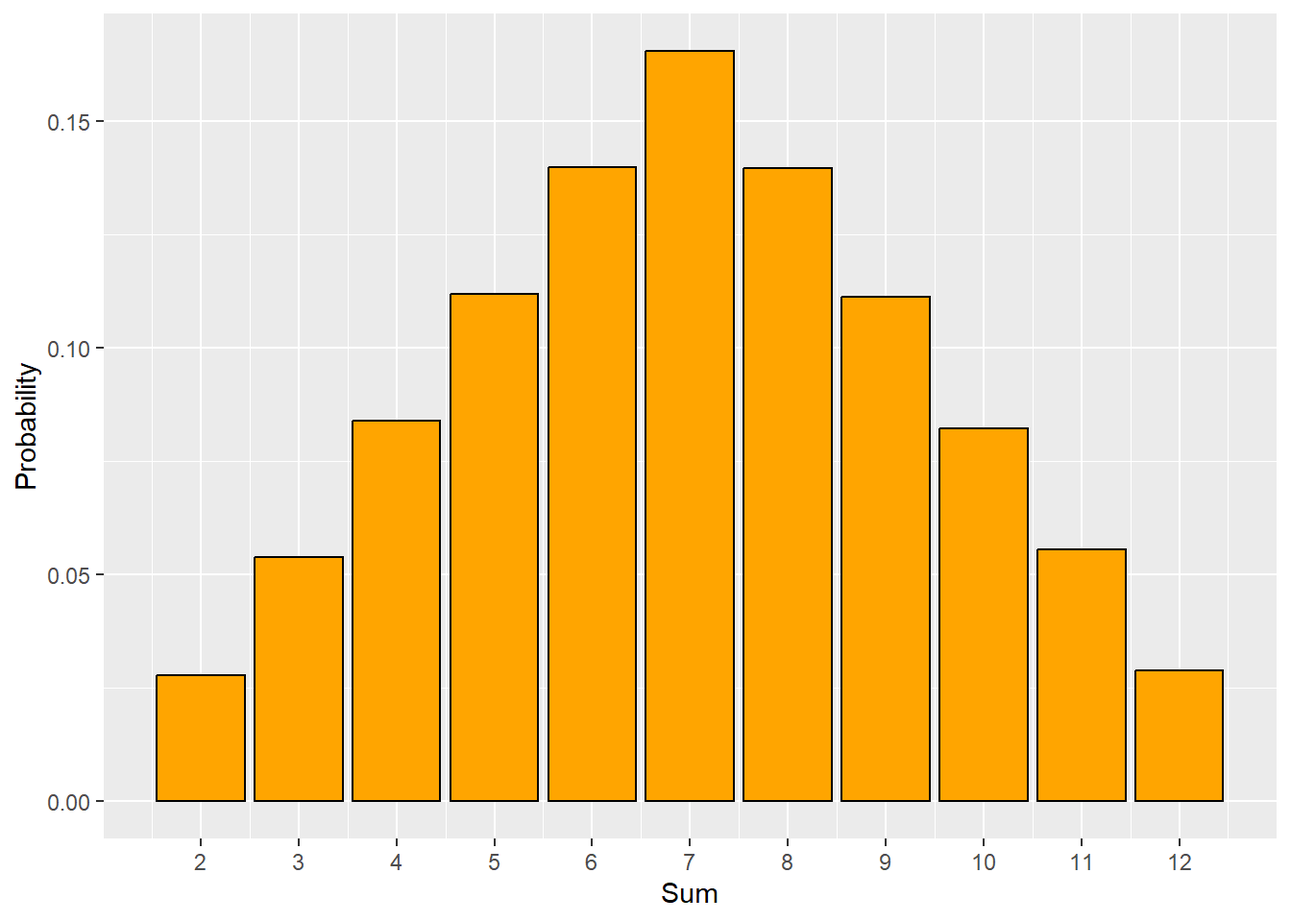
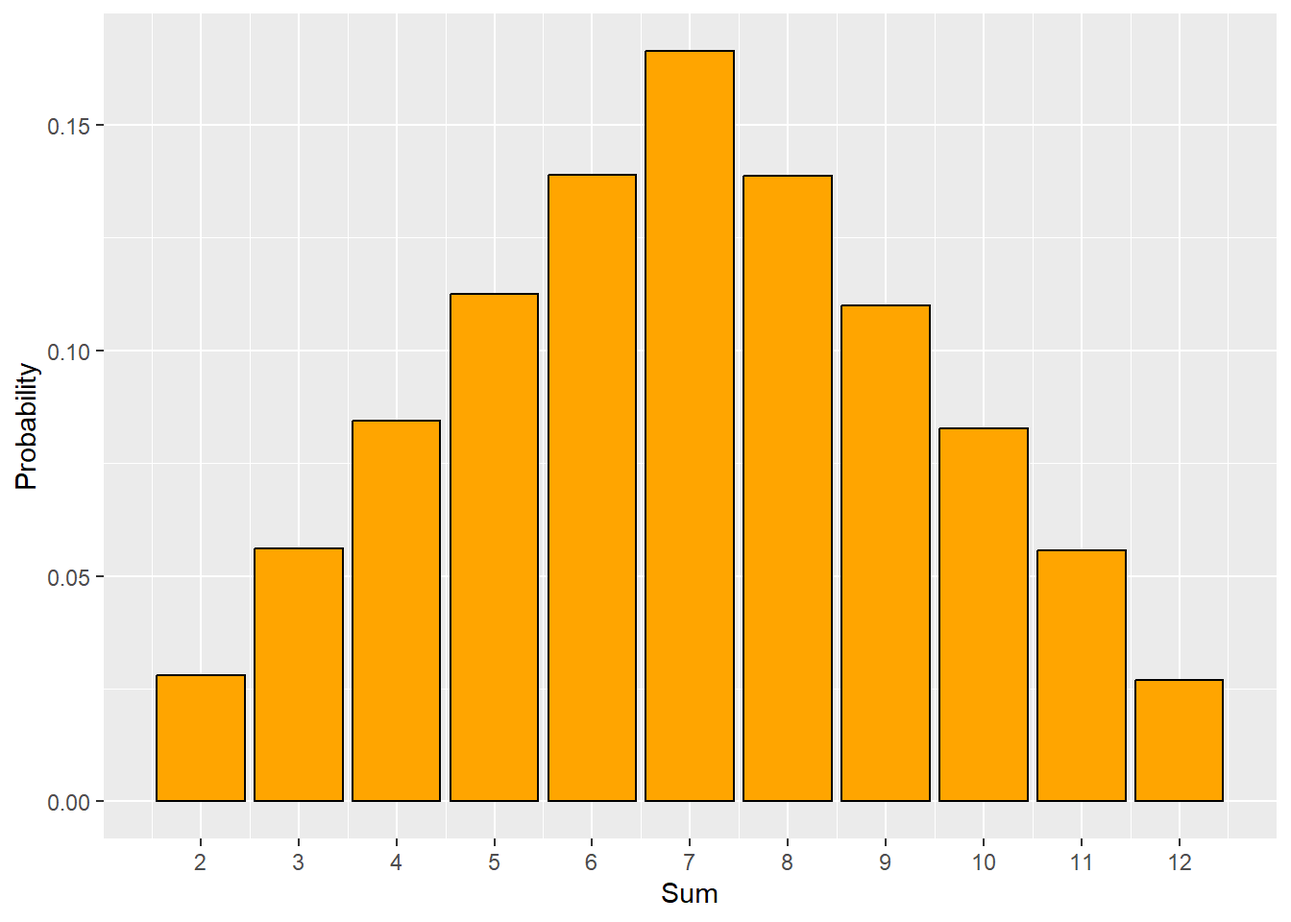
Built site for gh-pages

diff --git a/content/chapters/Relationships_among_numerical_variables.html b/content/chapters/Relationships_among_numerical_variables.html
@@ -260,7 +260,7 @@ pre > code.sourceCode > span > a:first-child::before { text-decoration: underlin
 </li>
           <li class="sidebar-item">
   <div class="sidebar-item-container"> 
-  <a href="../../content/chapters/references.bib" class="sidebar-item-text sidebar-link">
+  <a href="../../content/references.bib" class="sidebar-item-text sidebar-link">
  <span class="menu-text">Download a full reference list!</span></a>
   </div>
 </li>
@@ -425,7 +425,7 @@ H_A: \textrm{there is a relationship between sepal and petal length}\\
 <p><img src="Relationships_among_numerical_variables_files/figure-html/unnamed-chunk-4-1.png" class="img-fluid" width="672"></p>
 </div>
 </div>
-<p>While we can draw this “line of best fit” by sight, linear models actually give us a way to formally define it (analyze our hypothesis). The line of best fit minimizes the residuals (which means it also offers a prediction any value of sepal length!). This approach, however, also means we are considering <strong>linear</strong> relationships between our variables. This is one assumption of linear regression! We can consider <strong>non-linear</strong> relationships using other techniques (which we will cover later).</p>
+<p>While we can draw this “line of best fit” by sight, linear models actually give us a way to formally define it (analyze our hypothesis). The line of best fit minimizes the residuals (which means it also offers a prediction any value of sepal length!). This approach, however, also means we are considering <strong>linear</strong> relationships between our predictor variables (but note our predictor variables themselves could be a transformation of an actual measurement, such as a square root or value cubed!). This is one assumption of linear regression. We can consider <strong>non-linear</strong> relationships using other techniques (which we will cover later).</p>
 <p>If we wanted to carry out a sampling experiment to determine a p-value for our hypotheses, we could sample from a population that represents our sepal lengths and one that represents our petal lengths. If the two populations are not connected, then arbitrary pairs could be made - this would indicate no relationship among the variables. For each dataset, we could note the potential relationship (now occuring by chance!) between our variables, and then compare that null distribution to what we actually observed. To make this approach more generalizable, we could standardize our data points - using these to calculate our error terms for full and reduced models would lead us to F distributions.</p>
 <p>Overall, this means we can use a linear model approach to investigate relationships among numerical variables. We can build the model</p>
 <div class="cell">
@@ -608,7 +608,7 @@ Z = 10.641, p-value &lt; 2.2e-16
 alternative hypothesis: two.sided</code></pre>
 </div>
 </div>
-<p>Bootstrapping may be done using the <strong>boot</strong> or other packages (not developed here).</p>
+<p>Bootstrapping may be done using the <strong>boot</strong> or other packages. For example, the <em>boot</em> function in the <strong>car</strong> package gives an easy wrapper for <em>boot</em>.</p>
 <div class="cell">
 <div class="sourceCode cell-code" id="cb34"><pre class="sourceCode r code-with-copy"><code class="sourceCode r"><span id="cb34-1"><a href="#cb34-1" aria-hidden="true" tabindex="-1"></a><span class="fu">library</span>(car)</span>
 <span id="cb34-2"><a href="#cb34-2" aria-hidden="true" tabindex="-1"></a>bootstrap_iris <span class="ot">&lt;-</span> <span class="fu">Boot</span>(iris_regression)</span></code><button title="Copy to Clipboard" class="code-copy-button"><i class="bi"></i></button></pre></div>
@@ -619,9 +619,17 @@ alternative hypothesis: two.sided</code></pre>
 <div class="cell-output cell-output-stdout">
 <pre><code>
 Number of bootstrap replications R = 999 
-             original   bootBias   bootSE bootMed
-(Intercept)   -7.1014 -0.0181896 0.430265 -7.1185
-Sepal.Length   1.8584  0.0031911 0.070123  1.8607</code></pre>
+             original    bootBias  bootSE bootMed
+(Intercept)   -7.1014 -0.00126225 0.39454 -7.0941
+Sepal.Length   1.8584  0.00040832 0.06414  1.8575</code></pre>
+</div>
+<div class="sourceCode cell-code" id="cb38"><pre class="sourceCode r code-with-copy"><code class="sourceCode r"><span id="cb38-1"><a href="#cb38-1" aria-hidden="true" tabindex="-1"></a><span class="fu">Confint</span>(bootstrap_iris)</span></code><button title="Copy to Clipboard" class="code-copy-button"><i class="bi"></i></button></pre></div>
+<div class="cell-output cell-output-stdout">
+<pre><code>Bootstrap bca confidence intervals
+
+              Estimate     2.5 %    97.5 %
+(Intercept)  -7.101443 -7.903464 -6.303292
+Sepal.Length  1.858433  1.731321  1.984933</code></pre>
 </div>
 </div>
 </section>
@@ -631,40 +639,40 @@ Sepal.Length   1.8584  0.0031911 0.070123  1.8607</code></pre>
 <p>Although our linear models all have the same assumptions, numerical predictors add a few new wrinkles. For numerical predictors, outliers may be more of an issue. Outliers may be used a general term to focus on a data point that is different from the rest of the dataset, but only certain types of outliers matter.</p>
 <p>For example, let’s pretend we realized our <em>iris</em> dataset was missing 3 rows and add them back in.</p>
 <div class="cell">
-<div class="sourceCode cell-code" id="cb38"><pre class="sourceCode r code-with-copy"><code class="sourceCode r"><span id="cb38-1"><a href="#cb38-1" aria-hidden="true" tabindex="-1"></a>iris_new <span class="ot">&lt;-</span> iris</span>
-<span id="cb38-2"><a href="#cb38-2" aria-hidden="true" tabindex="-1"></a>iris_new<span class="sc">$</span>Source <span class="ot">&lt;-</span> <span class="st">"original"</span></span>
-<span id="cb38-3"><a href="#cb38-3" aria-hidden="true" tabindex="-1"></a>iris_new<span class="sc">$</span>label <span class="ot">&lt;-</span> <span class="cn">NULL</span></span>
-<span id="cb38-4"><a href="#cb38-4" aria-hidden="true" tabindex="-1"></a><span class="co">#make outlier</span></span>
-<span id="cb38-5"><a href="#cb38-5" aria-hidden="true" tabindex="-1"></a>iris_outlier <span class="ot">&lt;-</span> <span class="fu">data.frame</span>(<span class="at">Petal.Length =</span> <span class="fu">c</span>(<span class="fl">2.5</span>,<span class="dv">12</span>, <span class="fl">12.1</span>),</span>
-<span id="cb38-6"><a href="#cb38-6" aria-hidden="true" tabindex="-1"></a>                           <span class="at">Sepal.Length =</span> <span class="fu">c</span>(<span class="fl">5.4</span>,<span class="fl">8.9</span>, <span class="dv">3</span>), </span>
-<span id="cb38-7"><a href="#cb38-7" aria-hidden="true" tabindex="-1"></a>                           <span class="at">Source =</span> <span class="st">"new"</span>,</span>
-<span id="cb38-8"><a href="#cb38-8" aria-hidden="true" tabindex="-1"></a>                           <span class="at">label =</span> <span class="fu">c</span>(<span class="st">"A"</span>,<span class="st">"B"</span>, <span class="st">"C"</span>))</span>
-<span id="cb38-9"><a href="#cb38-9" aria-hidden="true" tabindex="-1"></a>iris_merged <span class="ot">&lt;-</span> <span class="fu">merge</span>(iris_new, iris_outlier, <span class="at">all =</span> T)</span>
-<span id="cb38-10"><a href="#cb38-10" aria-hidden="true" tabindex="-1"></a>iris_merged <span class="ot">&lt;-</span> iris_merged[<span class="fu">order</span>(iris_merged<span class="sc">$</span>Source, <span class="at">decreasing =</span> T),]</span>
-<span id="cb38-11"><a href="#cb38-11" aria-hidden="true" tabindex="-1"></a><span class="fu">rownames</span>(iris_merged) <span class="ot">&lt;-</span> <span class="dv">1</span><span class="sc">:</span><span class="fu">nrow</span>(iris_merged) </span>
-<span id="cb38-12"><a href="#cb38-12" aria-hidden="true" tabindex="-1"></a></span>
-<span id="cb38-13"><a href="#cb38-13" aria-hidden="true" tabindex="-1"></a>iris_merged<span class="sc">$</span>row_number <span class="ot">&lt;-</span> <span class="dv">1</span><span class="sc">:</span><span class="fu">nrow</span>(iris_merged)</span>
-<span id="cb38-14"><a href="#cb38-14" aria-hidden="true" tabindex="-1"></a></span>
-<span id="cb38-15"><a href="#cb38-15" aria-hidden="true" tabindex="-1"></a><span class="fu">ggplot</span>(iris_merged, <span class="fu">aes</span>(<span class="at">y=</span>Petal.Length, <span class="at">x=</span>Sepal.Length, <span class="at">color=</span>Source)) <span class="sc">+</span></span>
-<span id="cb38-16"><a href="#cb38-16" aria-hidden="true" tabindex="-1"></a>  <span class="fu">geom_point</span>() <span class="sc">+</span></span>
-<span id="cb38-17"><a href="#cb38-17" aria-hidden="true" tabindex="-1"></a>  <span class="fu">geom_text</span>(iris_merged[iris_merged<span class="sc">$</span>Source <span class="sc">!=</span> <span class="st">"original"</span>,],<span class="at">mapping=</span><span class="fu">aes</span>(<span class="at">label=</span>row_number,<span class="at">y=</span>Sepal.Length<span class="fl">+.2</span>), <span class="at">color=</span><span class="st">"black"</span>) <span class="sc">+</span></span>
-<span id="cb38-18"><a href="#cb38-18" aria-hidden="true" tabindex="-1"></a>  <span class="fu">labs</span>(<span class="at">title=</span><span class="st">"Iris data including our missing 3 rows!"</span>,</span>
-<span id="cb38-19"><a href="#cb38-19" aria-hidden="true" tabindex="-1"></a>       <span class="at">x=</span> <span class="st">"Sepal length (cm)"</span>,</span>
-<span id="cb38-20"><a href="#cb38-20" aria-hidden="true" tabindex="-1"></a>       <span class="at">y=</span> <span class="st">"Petal Length (cm)"</span>)</span></code><button title="Copy to Clipboard" class="code-copy-button"><i class="bi"></i></button></pre></div>
+<div class="sourceCode cell-code" id="cb40"><pre class="sourceCode r code-with-copy"><code class="sourceCode r"><span id="cb40-1"><a href="#cb40-1" aria-hidden="true" tabindex="-1"></a>iris_new <span class="ot">&lt;-</span> iris</span>
+<span id="cb40-2"><a href="#cb40-2" aria-hidden="true" tabindex="-1"></a>iris_new<span class="sc">$</span>Source <span class="ot">&lt;-</span> <span class="st">"original"</span></span>
+<span id="cb40-3"><a href="#cb40-3" aria-hidden="true" tabindex="-1"></a>iris_new<span class="sc">$</span>label <span class="ot">&lt;-</span> <span class="cn">NULL</span></span>
+<span id="cb40-4"><a href="#cb40-4" aria-hidden="true" tabindex="-1"></a><span class="co">#make outlier</span></span>
+<span id="cb40-5"><a href="#cb40-5" aria-hidden="true" tabindex="-1"></a>iris_outlier <span class="ot">&lt;-</span> <span class="fu">data.frame</span>(<span class="at">Petal.Length =</span> <span class="fu">c</span>(<span class="fl">2.5</span>,<span class="dv">12</span>, <span class="fl">12.1</span>),</span>
+<span id="cb40-6"><a href="#cb40-6" aria-hidden="true" tabindex="-1"></a>                           <span class="at">Sepal.Length =</span> <span class="fu">c</span>(<span class="fl">5.4</span>,<span class="fl">8.9</span>, <span class="dv">3</span>), </span>
+<span id="cb40-7"><a href="#cb40-7" aria-hidden="true" tabindex="-1"></a>                           <span class="at">Source =</span> <span class="st">"new"</span>,</span>
+<span id="cb40-8"><a href="#cb40-8" aria-hidden="true" tabindex="-1"></a>                           <span class="at">label =</span> <span class="fu">c</span>(<span class="st">"A"</span>,<span class="st">"B"</span>, <span class="st">"C"</span>))</span>
+<span id="cb40-9"><a href="#cb40-9" aria-hidden="true" tabindex="-1"></a>iris_merged <span class="ot">&lt;-</span> <span class="fu">merge</span>(iris_new, iris_outlier, <span class="at">all =</span> T)</span>
+<span id="cb40-10"><a href="#cb40-10" aria-hidden="true" tabindex="-1"></a>iris_merged <span class="ot">&lt;-</span> iris_merged[<span class="fu">order</span>(iris_merged<span class="sc">$</span>Source, <span class="at">decreasing =</span> T),]</span>
+<span id="cb40-11"><a href="#cb40-11" aria-hidden="true" tabindex="-1"></a><span class="fu">rownames</span>(iris_merged) <span class="ot">&lt;-</span> <span class="dv">1</span><span class="sc">:</span><span class="fu">nrow</span>(iris_merged) </span>
+<span id="cb40-12"><a href="#cb40-12" aria-hidden="true" tabindex="-1"></a></span>
+<span id="cb40-13"><a href="#cb40-13" aria-hidden="true" tabindex="-1"></a>iris_merged<span class="sc">$</span>row_number <span class="ot">&lt;-</span> <span class="dv">1</span><span class="sc">:</span><span class="fu">nrow</span>(iris_merged)</span>
+<span id="cb40-14"><a href="#cb40-14" aria-hidden="true" tabindex="-1"></a></span>
+<span id="cb40-15"><a href="#cb40-15" aria-hidden="true" tabindex="-1"></a><span class="fu">ggplot</span>(iris_merged, <span class="fu">aes</span>(<span class="at">y=</span>Petal.Length, <span class="at">x=</span>Sepal.Length, <span class="at">color=</span>Source)) <span class="sc">+</span></span>
+<span id="cb40-16"><a href="#cb40-16" aria-hidden="true" tabindex="-1"></a>  <span class="fu">geom_point</span>() <span class="sc">+</span></span>
+<span id="cb40-17"><a href="#cb40-17" aria-hidden="true" tabindex="-1"></a>  <span class="fu">geom_text</span>(iris_merged[iris_merged<span class="sc">$</span>Source <span class="sc">!=</span> <span class="st">"original"</span>,],<span class="at">mapping=</span><span class="fu">aes</span>(<span class="at">label=</span>row_number,<span class="at">y=</span>Sepal.Length<span class="fl">+.2</span>), <span class="at">color=</span><span class="st">"black"</span>) <span class="sc">+</span></span>
+<span id="cb40-18"><a href="#cb40-18" aria-hidden="true" tabindex="-1"></a>  <span class="fu">labs</span>(<span class="at">title=</span><span class="st">"Iris data including our missing 3 rows!"</span>,</span>
+<span id="cb40-19"><a href="#cb40-19" aria-hidden="true" tabindex="-1"></a>       <span class="at">x=</span> <span class="st">"Sepal length (cm)"</span>,</span>
+<span id="cb40-20"><a href="#cb40-20" aria-hidden="true" tabindex="-1"></a>       <span class="at">y=</span> <span class="st">"Petal Length (cm)"</span>)</span></code><button title="Copy to Clipboard" class="code-copy-button"><i class="bi"></i></button></pre></div>
 <div class="cell-output-display">
 <p><img src="Relationships_among_numerical_variables_files/figure-html/unnamed-chunk-16-1.png" class="img-fluid" width="672"></p>
 </div>
 </div>
 <p>Our 3 “new” points (rows 151-153) are all unique ins some way. <strong>152</strong> is from a relatively unsampled region of the graph that is within the range of existing data. <strong>151</strong> and <strong>153</strong> are also from un-sampled regions, but these are outside of the original range. More importantly, note if we fit the data <em>without</em> these points</p>
 <div class="cell">
-<div class="sourceCode cell-code" id="cb39"><pre class="sourceCode r code-with-copy"><code class="sourceCode r"><span id="cb39-1"><a href="#cb39-1" aria-hidden="true" tabindex="-1"></a><span class="fu">ggplot</span>(iris_merged, <span class="fu">aes</span>(<span class="at">y=</span>Petal.Length, <span class="at">x=</span>Sepal.Length, <span class="at">color=</span>Source)) <span class="sc">+</span></span>
-<span id="cb39-2"><a href="#cb39-2" aria-hidden="true" tabindex="-1"></a>  <span class="fu">geom_point</span>() <span class="sc">+</span></span>
-<span id="cb39-3"><a href="#cb39-3" aria-hidden="true" tabindex="-1"></a>  <span class="fu">geom_text</span>(iris_merged[iris_merged<span class="sc">$</span>Source <span class="sc">!=</span> <span class="st">"original"</span>,],<span class="at">mapping=</span><span class="fu">aes</span>(<span class="at">label=</span>row_number,<span class="at">y=</span>Sepal.Length<span class="fl">+.2</span>), <span class="at">color=</span><span class="st">"black"</span>) <span class="sc">+</span></span>
-<span id="cb39-4"><a href="#cb39-4" aria-hidden="true" tabindex="-1"></a>  <span class="fu">labs</span>(<span class="at">title=</span><span class="st">"Iris data including our missing 3 rows!"</span>,</span>
-<span id="cb39-5"><a href="#cb39-5" aria-hidden="true" tabindex="-1"></a>       <span class="at">subtitle =</span> <span class="st">"Best fit based on original data only!"</span>,</span>
-<span id="cb39-6"><a href="#cb39-6" aria-hidden="true" tabindex="-1"></a>       <span class="at">x=</span> <span class="st">"Sepal length (cm)"</span>,</span>
-<span id="cb39-7"><a href="#cb39-7" aria-hidden="true" tabindex="-1"></a>       <span class="at">y=</span> <span class="st">"Petal Length (cm)"</span>) <span class="sc">+</span></span>
-<span id="cb39-8"><a href="#cb39-8" aria-hidden="true" tabindex="-1"></a>  <span class="fu">geom_smooth</span>(<span class="at">data=</span>iris_new[iris_new<span class="sc">$</span>Source <span class="sc">==</span> <span class="st">"original"</span>,], <span class="at">method =</span> <span class="st">"lm"</span>, <span class="at">fullrange=</span>T, <span class="at">se=</span>F)</span></code><button title="Copy to Clipboard" class="code-copy-button"><i class="bi"></i></button></pre></div>
+<div class="sourceCode cell-code" id="cb41"><pre class="sourceCode r code-with-copy"><code class="sourceCode r"><span id="cb41-1"><a href="#cb41-1" aria-hidden="true" tabindex="-1"></a><span class="fu">ggplot</span>(iris_merged, <span class="fu">aes</span>(<span class="at">y=</span>Petal.Length, <span class="at">x=</span>Sepal.Length, <span class="at">color=</span>Source)) <span class="sc">+</span></span>
+<span id="cb41-2"><a href="#cb41-2" aria-hidden="true" tabindex="-1"></a>  <span class="fu">geom_point</span>() <span class="sc">+</span></span>
+<span id="cb41-3"><a href="#cb41-3" aria-hidden="true" tabindex="-1"></a>  <span class="fu">geom_text</span>(iris_merged[iris_merged<span class="sc">$</span>Source <span class="sc">!=</span> <span class="st">"original"</span>,],<span class="at">mapping=</span><span class="fu">aes</span>(<span class="at">label=</span>row_number,<span class="at">y=</span>Sepal.Length<span class="fl">+.2</span>), <span class="at">color=</span><span class="st">"black"</span>) <span class="sc">+</span></span>
+<span id="cb41-4"><a href="#cb41-4" aria-hidden="true" tabindex="-1"></a>  <span class="fu">labs</span>(<span class="at">title=</span><span class="st">"Iris data including our missing 3 rows!"</span>,</span>
+<span id="cb41-5"><a href="#cb41-5" aria-hidden="true" tabindex="-1"></a>       <span class="at">subtitle =</span> <span class="st">"Best fit based on original data only!"</span>,</span>
+<span id="cb41-6"><a href="#cb41-6" aria-hidden="true" tabindex="-1"></a>       <span class="at">x=</span> <span class="st">"Sepal length (cm)"</span>,</span>
+<span id="cb41-7"><a href="#cb41-7" aria-hidden="true" tabindex="-1"></a>       <span class="at">y=</span> <span class="st">"Petal Length (cm)"</span>) <span class="sc">+</span></span>
+<span id="cb41-8"><a href="#cb41-8" aria-hidden="true" tabindex="-1"></a>  <span class="fu">geom_smooth</span>(<span class="at">data=</span>iris_new[iris_new<span class="sc">$</span>Source <span class="sc">==</span> <span class="st">"original"</span>,], <span class="at">method =</span> <span class="st">"lm"</span>, <span class="at">fullrange=</span>T, <span class="at">se=</span>F)</span></code><button title="Copy to Clipboard" class="code-copy-button"><i class="bi"></i></button></pre></div>
 <div class="cell-output cell-output-stderr">
 <pre><code>`geom_smooth()` using formula = 'y ~ x'</code></pre>
 </div>
@@ -674,8 +682,8 @@ Sepal.Length   1.8584  0.0031911 0.070123  1.8607</code></pre>
 </div>
 <p>We see that only row <strong>151</strong> appears to be different than what we would expect given the rest of the data. Now, note if we fit a model all these points and check assumptions</p>
 <div class="cell">
-<div class="sourceCode cell-code" id="cb41"><pre class="sourceCode r code-with-copy"><code class="sourceCode r"><span id="cb41-1"><a href="#cb41-1" aria-hidden="true" tabindex="-1"></a>iris_regression_new <span class="ot">&lt;-</span> <span class="fu">lm</span>(Petal.Length <span class="sc">~</span> Sepal.Length, iris_merged)</span>
-<span id="cb41-2"><a href="#cb41-2" aria-hidden="true" tabindex="-1"></a><span class="fu">plot</span>(iris_regression_new)</span></code><button title="Copy to Clipboard" class="code-copy-button"><i class="bi"></i></button></pre></div>
+<div class="sourceCode cell-code" id="cb43"><pre class="sourceCode r code-with-copy"><code class="sourceCode r"><span id="cb43-1"><a href="#cb43-1" aria-hidden="true" tabindex="-1"></a>iris_regression_new <span class="ot">&lt;-</span> <span class="fu">lm</span>(Petal.Length <span class="sc">~</span> Sepal.Length, iris_merged)</span>
+<span id="cb43-2"><a href="#cb43-2" aria-hidden="true" tabindex="-1"></a><span class="fu">plot</span>(iris_regression_new)</span></code><button title="Copy to Clipboard" class="code-copy-button"><i class="bi"></i></button></pre></div>
 <div class="cell-output-display">
 <p><img src="Relationships_among_numerical_variables_files/figure-html/unnamed-chunk-18-1.png" class="img-fluid" width="672"></p>
 </div>
@@ -692,15 +700,15 @@ Sepal.Length   1.8584  0.0031911 0.070123  1.8607</code></pre>
 <p>several plots label row <strong>151</strong>. In general, R provides the row number of the most “unusual” rows in each graph. This may mean a fairly normal row that just so happens to be the “most” extreme in a dataset is labelled. However, here we see row <strong>151</strong> falling outside the dotted lines that are labelled <em>Cook’s distance</em> in the 4th graph. Cook’s distance is one way of quantifying leverage, or how much a single point shifts the best fit line. The measure quantifies change in the regression coefficients if each data point is removed individually. Here we see row <strong>151</strong> is a high leverage point, while <strong>153</strong> is not even though the sepal length itself may be an outlier.</p>
 <p>Although row <strong>153</strong> is not identified as a high leverage point, it <em>is</em> impacting the line (as are all other points). Our best fit line will <em>always</em> go though the point <span class="math inline">\((\bar{x}, \bar{y})\)</span>, so outliers in the “x” variable will impact the line. This also explains why the confidence region (which we won’t calculate here), gets “smaller” in the middle of the data range.</p>
 <div class="cell">
-<div class="sourceCode cell-code" id="cb42"><pre class="sourceCode r code-with-copy"><code class="sourceCode r"><span id="cb42-1"><a href="#cb42-1" aria-hidden="true" tabindex="-1"></a><span class="fu">ggplot</span>(iris_merged, <span class="fu">aes</span>(<span class="at">y=</span>Petal.Length, <span class="at">x=</span>Sepal.Length)) <span class="sc">+</span></span>
-<span id="cb42-2"><a href="#cb42-2" aria-hidden="true" tabindex="-1"></a>  <span class="fu">geom_point</span>(<span class="fu">aes</span>(<span class="at">color=</span>Source)) <span class="sc">+</span></span>
-<span id="cb42-3"><a href="#cb42-3" aria-hidden="true" tabindex="-1"></a>  <span class="fu">geom_text</span>(iris_merged[iris_merged<span class="sc">$</span>Source <span class="sc">!=</span> <span class="st">"original"</span>,],<span class="at">mapping=</span><span class="fu">aes</span>(<span class="at">label=</span>row_number,<span class="at">y=</span>Sepal.Length<span class="fl">+.2</span>), <span class="at">color=</span><span class="st">"black"</span>) <span class="sc">+</span></span>
-<span id="cb42-4"><a href="#cb42-4" aria-hidden="true" tabindex="-1"></a>  <span class="fu">labs</span>(<span class="at">title=</span><span class="st">"Iris data including our missing 3 rows!"</span>,</span>
-<span id="cb42-5"><a href="#cb42-5" aria-hidden="true" tabindex="-1"></a>       <span class="at">subtitle =</span> <span class="st">"Grey area is confidence region, with mean point shown in purple!"</span>,</span>
-<span id="cb42-6"><a href="#cb42-6" aria-hidden="true" tabindex="-1"></a>       <span class="at">x=</span> <span class="st">"Sepal length (cm)"</span>,</span>
-<span id="cb42-7"><a href="#cb42-7" aria-hidden="true" tabindex="-1"></a>       <span class="at">y=</span> <span class="st">"Petal Length (cm)"</span>) <span class="sc">+</span></span>
-<span id="cb42-8"><a href="#cb42-8" aria-hidden="true" tabindex="-1"></a>  <span class="fu">geom_smooth</span>( <span class="at">method =</span> <span class="st">"lm"</span>, <span class="at">fullrange=</span>T, <span class="at">se=</span>T)<span class="sc">+</span></span>
-<span id="cb42-9"><a href="#cb42-9" aria-hidden="true" tabindex="-1"></a>  <span class="fu">geom_point</span>(<span class="fu">aes</span>(<span class="at">x=</span><span class="fu">mean</span>(iris_merged<span class="sc">$</span>Sepal.Length), <span class="at">y=</span><span class="fu">mean</span>(iris_merged<span class="sc">$</span>Petal.Length)), <span class="at">color=</span><span class="st">"purple"</span>)</span></code><button title="Copy to Clipboard" class="code-copy-button"><i class="bi"></i></button></pre></div>
+<div class="sourceCode cell-code" id="cb44"><pre class="sourceCode r code-with-copy"><code class="sourceCode r"><span id="cb44-1"><a href="#cb44-1" aria-hidden="true" tabindex="-1"></a><span class="fu">ggplot</span>(iris_merged, <span class="fu">aes</span>(<span class="at">y=</span>Petal.Length, <span class="at">x=</span>Sepal.Length)) <span class="sc">+</span></span>
+<span id="cb44-2"><a href="#cb44-2" aria-hidden="true" tabindex="-1"></a>  <span class="fu">geom_point</span>(<span class="fu">aes</span>(<span class="at">color=</span>Source)) <span class="sc">+</span></span>
+<span id="cb44-3"><a href="#cb44-3" aria-hidden="true" tabindex="-1"></a>  <span class="fu">geom_text</span>(iris_merged[iris_merged<span class="sc">$</span>Source <span class="sc">!=</span> <span class="st">"original"</span>,],<span class="at">mapping=</span><span class="fu">aes</span>(<span class="at">label=</span>row_number,<span class="at">y=</span>Sepal.Length<span class="fl">+.2</span>), <span class="at">color=</span><span class="st">"black"</span>) <span class="sc">+</span></span>
+<span id="cb44-4"><a href="#cb44-4" aria-hidden="true" tabindex="-1"></a>  <span class="fu">labs</span>(<span class="at">title=</span><span class="st">"Iris data including our missing 3 rows!"</span>,</span>
+<span id="cb44-5"><a href="#cb44-5" aria-hidden="true" tabindex="-1"></a>       <span class="at">subtitle =</span> <span class="st">"Grey area is confidence region, with mean point shown in purple!"</span>,</span>
+<span id="cb44-6"><a href="#cb44-6" aria-hidden="true" tabindex="-1"></a>       <span class="at">x=</span> <span class="st">"Sepal length (cm)"</span>,</span>
+<span id="cb44-7"><a href="#cb44-7" aria-hidden="true" tabindex="-1"></a>       <span class="at">y=</span> <span class="st">"Petal Length (cm)"</span>) <span class="sc">+</span></span>
+<span id="cb44-8"><a href="#cb44-8" aria-hidden="true" tabindex="-1"></a>  <span class="fu">geom_smooth</span>( <span class="at">method =</span> <span class="st">"lm"</span>, <span class="at">fullrange=</span>T, <span class="at">se=</span>T)<span class="sc">+</span></span>
+<span id="cb44-9"><a href="#cb44-9" aria-hidden="true" tabindex="-1"></a>  <span class="fu">geom_point</span>(<span class="fu">aes</span>(<span class="at">x=</span><span class="fu">mean</span>(iris_merged<span class="sc">$</span>Sepal.Length), <span class="at">y=</span><span class="fu">mean</span>(iris_merged<span class="sc">$</span>Petal.Length)), <span class="at">color=</span><span class="st">"purple"</span>)</span></code><button title="Copy to Clipboard" class="code-copy-button"><i class="bi"></i></button></pre></div>
 <div class="cell-output cell-output-stderr">
 <pre><code>Warning: Use of `iris_merged$Sepal.Length` is discouraged.
 ℹ Use `Sepal.Length` instead.</code></pre>

diff --git a/content/chapters/summarizing_data.html b/content/chapters/summarizing_data.html
@@ -260,7 +260,7 @@ pre > code.sourceCode > span > a:first-child::before { text-decoration: underlin
 </li>
           <li class="sidebar-item">
   <div class="sidebar-item-container"> 
-  <a href="../../content/chapters/references.bib" class="sidebar-item-text sidebar-link">
+  <a href="../../content/references.bib" class="sidebar-item-text sidebar-link">
  <span class="menu-text">Download a full reference list!</span></a>
   </div>
 </li>
@@ -1590,7 +1590,7 @@ Attaching package: 'ggpubr'</code></pre>
 <summary>
 Why is the mode not always on the highest bar?
 </summary>
-<p>Note the mode is heavily/totally impacted by data precision and thus can lead to unusual matches with histograms. In our above example, cardinals were measured to 10<sup>-3</sup> grams. However, the data was binned to levels of 10<sup>-2</sup> grams. Due to this mismatch, the most common measurement of the <em>raw</em> data was 50.605, which occurred 6 times. However, more data points still fell in another bin!</p>
+<p>Note the mode is heavily/totally impacted by data precision and thus can lead to unusual matches with histograms. In our above example, cardinals were measured to 10<sup>-3</sup> grams. However, the data was binned to levels of 10<sup>-2</sup> grams. Due to this mismatch, the most common measurement of the <em>raw</em> data was 53.098, which occurred 6 times. However, more data points still fell in another bin!</p>
 </details>
 <p>A special case where central tendency may not be the best way to describe a distribution is known as <em>bimodal</em> data. In this case, the distribution shows two, not one, clear peak. Remember the woodpecker <a href="#fig-woodpeckers">Figure&nbsp;12</a> data?</p>
 <div class="cell">
@@ -1756,7 +1756,7 @@ CV = \frac{s}{Y} * 100\%
 <div class="sourceCode cell-code" id="cb91"><pre class="sourceCode r code-with-copy"><code class="sourceCode r"><span id="cb91-1"><a href="#cb91-1" aria-hidden="true" tabindex="-1"></a><span class="fu">summary</span>(cardinals)</span></code><button title="Copy to Clipboard" class="code-copy-button"><i class="bi"></i></button></pre></div>
 <div class="cell-output cell-output-stdout">
 <pre><code>   Min. 1st Qu.  Median    Mean 3rd Qu.    Max. 
-  22.09   46.08   49.98   49.17   53.18   59.67 </code></pre>
+  22.03   46.10   50.02   49.19   53.11   59.51 </code></pre>
 </div>
 </div>
 <p>Note that if we shifted the bottom 10% of the values even <em>further</em> left (increasing the skew), the median stays the same, as does the IQR.</p>
@@ -1776,7 +1776,7 @@ CV = \frac{s}{Y} * 100\%
 <div class="sourceCode cell-code" id="cb95"><pre class="sourceCode r code-with-copy"><code class="sourceCode r"><span id="cb95-1"><a href="#cb95-1" aria-hidden="true" tabindex="-1"></a><span class="fu">summary</span>(cardinals_new)</span></code><button title="Copy to Clipboard" class="code-copy-button"><i class="bi"></i></button></pre></div>
 <div class="cell-output cell-output-stdout">
 <pre><code>   Min. 1st Qu.  Median    Mean 3rd Qu.    Max. 
-  21.69   46.08   49.98   49.13   53.18   59.67 </code></pre>
+  21.63   46.10   50.02   49.15   53.11   59.51 </code></pre>
 </div>
 <div class="cell-output-display">
 <div id="fig-cardinals_ggplot2_shifted" class="quarto-figure quarto-figure-center anchored">

diff --git a/content/chapters/Acquiring_data.html b/content/chapters/Acquiring_data.html
@@ -274,7 +274,7 @@ div.csl-indent {
 </li>
           <li class="sidebar-item">
   <div class="sidebar-item-container"> 
-  <a href="../../content/chapters/references.bib" class="sidebar-item-text sidebar-link">
+  <a href="../../content/references.bib" class="sidebar-item-text sidebar-link">
  <span class="menu-text">Download a full reference list!</span></a>
   </div>
 </li>
@@ -409,12 +409,12 @@ div.csl-indent {
 <div class="cell">
 <div class="sourceCode cell-code" id="cb1"><pre class="sourceCode r code-with-copy"><code class="sourceCode r"><span id="cb1-1"><a href="#cb1-1" aria-hidden="true" tabindex="-1"></a>lengths <span class="ot">&lt;-</span> <span class="fu">rnorm</span>(<span class="at">n=</span><span class="dv">1000</span>, <span class="at">mean =</span> <span class="dv">10</span>, <span class="at">sd=</span><span class="dv">1</span>)</span></code><button title="Copy to Clipboard" class="code-copy-button"><i class="bi"></i></button></pre></div>
 </div>
-<p>The average length of fish in this population is 10.02 cm. We can then simulate a sample from this population. In fact, let’s simulate 2 and compare the means of each.</p>
+<p>The average length of fish in this population is 10.01 cm. We can then simulate a sample from this population. In fact, let’s simulate 2 and compare the means of each.</p>
 <div class="cell">
 <div class="sourceCode cell-code" id="cb2"><pre class="sourceCode r code-with-copy"><code class="sourceCode r"><span id="cb2-1"><a href="#cb2-1" aria-hidden="true" tabindex="-1"></a>sample_1 <span class="ot">&lt;-</span> <span class="fu">sample</span>(lengths,<span class="dv">50</span>)</span>
 <span id="cb2-2"><a href="#cb2-2" aria-hidden="true" tabindex="-1"></a>sample_2 <span class="ot">&lt;-</span><span class="fu">sample</span>(lengths, <span class="dv">50</span>)</span></code><button title="Copy to Clipboard" class="code-copy-button"><i class="bi"></i></button></pre></div>
 </div>
-<p>The mean length for fish in sample 1 is 10.19 cm, while that in sample 2 is 10 cm (Note: if you view this on the webpage you will see a number, but in the actual qmd file you see R code here - this is an example of merging code and text!). These are both close to the true value, but they are also both slightly different - this is sampling error!</p>
+<p>The mean length for fish in sample 1 is 9.88 cm, while that in sample 2 is 10 cm (Note: if you view this on the webpage you will see a number, but in the actual qmd file you see R code here - this is an example of merging code and text!). These are both close to the true value, but they are also both slightly different - this is sampling error!</p>
 <p>Sampling error always exists, and a major part of statistics is to quantify it. One thing that reduces sampling error is to have large samples! Remember, if we measure every member of the population we don’t even need statistics, so the closer we get to that (implying larger samples) the better!</p>
 </section>
 <section id="next-steps" class="level2">

diff --git a/content/practice_problems/6_Comparing_means.html b/content/practice_problems/6_Comparing_means.html
@@ -7,7 +7,7 @@
 <meta name="viewport" content="width=device-width, initial-scale=1.0, user-scalable=yes">
 
 <meta name="author" content="jsg">
-<meta name="dcterms.date" content="2023-10-29">
+<meta name="dcterms.date" content="2023-10-30">
 
 <title>Biostatistics! - 6. Comparing means</title>
 <style>
@@ -85,7 +85,7 @@ div.csl-indent {
 <script src="../../site_libs/quarto-search/quarto-search.js"></script>
 <meta name="quarto:offset" content="../../">
 <link href="../../content/Intro_to_R.html" rel="next">
-<link href="../../content/chapters/references.bib" rel="prev">
+<link href="../../content/references.bib" rel="prev">
 <link href="../../images/favicon.ico" rel="icon">
 <script src="../../site_libs/quarto-html/quarto.js"></script>
 <script src="../../site_libs/quarto-html/popper.min.js"></script>
@@ -276,7 +276,7 @@ div.csl-indent {
 </li>
           <li class="sidebar-item">
   <div class="sidebar-item-container"> 
-  <a href="../../content/chapters/references.bib" class="sidebar-item-text sidebar-link">
+  <a href="../../content/references.bib" class="sidebar-item-text sidebar-link">
  <span class="menu-text">Download a full reference list!</span></a>
   </div>
 </li>
@@ -376,7 +376,7 @@ div.csl-indent {
     <div>
     <div class="quarto-title-meta-heading">Published</div>
     <div class="quarto-title-meta-contents">
-      <p class="date">October 29, 2023</p>
+      <p class="date">October 30, 2023</p>
     </div>
   </div>
   
@@ -1007,7 +1007,7 @@ window.document.addEventListener("DOMContentLoaded", function (event) {
 </script>
 <nav class="page-navigation">
   <div class="nav-page nav-page-previous">
-      <a href="../../content/chapters/references.bib" class="pagination-link">
+      <a href="../../content/references.bib" class="pagination-link">
         <i class="bi bi-arrow-left-short"></i> <span class="nav-page-text">Download a full reference list!</span>
       </a>          
   </div>

diff --git a/content/chapters/Probability.html b/content/chapters/Probability.html
@@ -276,7 +276,7 @@ div.csl-indent {
 </li>
           <li class="sidebar-item">
   <div class="sidebar-item-container"> 
-  <a href="../../content/chapters/references.bib" class="sidebar-item-text sidebar-link">
+  <a href="../../content/references.bib" class="sidebar-item-text sidebar-link">
  <span class="menu-text">Download a full reference list!</span></a>
   </div>
 </li>
@@ -600,7 +600,7 @@ P[roll=blue] + P[roll=6] - P[roll=6 \ and \ blue]= \frac{1}{2} + \frac{1}{6} -\f
 <p><img src="Probability_files/figure-html/unnamed-chunk-5-1.png" class="img-fluid" width="672"></p>
 </div>
 </div>
-<p>Notice here we find the probability of rolling a sum of 5 is 0.11187 which is very close to <span class="math inline">\(\frac{4}{36}\)</span>.</p>
+<p>Notice here we find the probability of rolling a sum of 5 is 0.11246 which is very close to <span class="math inline">\(\frac{4}{36}\)</span>.</p>
 <p>To find the probability using math, we have to note that the dice rolls are independent. For example, even though we only want a <strong>4</strong> on the second dice if we roll a <strong>1</strong> on the first dice, the roll of the first die does not influence the roll of the second. We should also note the desired outcomes are mutually exclusive. So we can find the probability of each happening and then add them. It’s easy to see how probability can get complicated!</p>
 </section>
 </section>

diff --git a/content/chapters/additional_resources.html b/content/chapters/additional_resources.html
@@ -50,7 +50,7 @@ div.csl-indent {
 <script src="../../site_libs/quarto-search/fuse.min.js"></script>
 <script src="../../site_libs/quarto-search/quarto-search.js"></script>
 <meta name="quarto:offset" content="../../">
-<link href="../../content/chapters/references.bib" rel="next">
+<link href="../../content/references.bib" rel="next">
 <link href="../../content/chapters/acknowledgements.html" rel="prev">
 <link href="../../images/favicon.ico" rel="icon">
 <script src="../../site_libs/quarto-html/quarto.js"></script>
@@ -242,7 +242,7 @@ div.csl-indent {
 </li>
           <li class="sidebar-item">
   <div class="sidebar-item-container"> 
-  <a href="../../content/chapters/references.bib" class="sidebar-item-text sidebar-link">
+  <a href="../../content/references.bib" class="sidebar-item-text sidebar-link">
  <span class="menu-text">Download a full reference list!</span></a>
   </div>
 </li>
@@ -727,7 +727,7 @@ window.document.addEventListener("DOMContentLoaded", function (event) {
       </a>          
   </div>
   <div class="nav-page nav-page-next">
-      <a href="../../content/chapters/references.bib" class="pagination-link">
+      <a href="../../content/references.bib" class="pagination-link">
         <span class="nav-page-text">Download a full reference list!</span> <i class="bi bi-arrow-right-short"></i>
       </a>
   </div>

diff --git a/content/chapters/Compare_means_among_populations.html b/content/chapters/Compare_means_among_populations.html
@@ -260,7 +260,7 @@ pre > code.sourceCode > span > a:first-child::before { text-decoration: underlin
 </li>
           <li class="sidebar-item">
   <div class="sidebar-item-container"> 
-  <a href="../../content/chapters/references.bib" class="sidebar-item-text sidebar-link">
+  <a href="../../content/references.bib" class="sidebar-item-text sidebar-link">
  <span class="menu-text">Download a full reference list!</span></a>
   </div>
 </li>
@@ -1087,7 +1087,7 @@ mean in group versicolor  mean in group virginica
                    5.936                    6.588 </code></pre>
 </div>
 </div>
-<p>note we can also run this test without assuming variances are differenct.</p>
+<p>note we can also run this test without assuming variances are different.</p>
 <div class="cell">
 <div class="sourceCode cell-code" id="cb76"><pre class="sourceCode r code-with-copy"><code class="sourceCode r"><span id="cb76-1"><a href="#cb76-1" aria-hidden="true" tabindex="-1"></a><span class="fu">boot.t.test</span>(Sepal.Length <span class="sc">~</span> Species, two_species_subset, <span class="at">var.equal=</span>T)</span></code><button title="Copy to Clipboard" class="code-copy-button"><i class="bi"></i></button></pre></div>
 <div class="cell-output cell-output-stdout">

diff --git a/content/Intro_to_Rmd.html b/content/Intro_to_Rmd.html
@@ -7,7 +7,7 @@
 <meta name="viewport" content="width=device-width, initial-scale=1.0, user-scalable=yes">
 
 <meta name="author" content="stephen’s example">
-<meta name="dcterms.date" content="2023-10-29">
+<meta name="dcterms.date" content="2023-10-30">
 
 <title>Biostatistics! - Intro to Rmd</title>
 <style>
@@ -257,7 +257,7 @@ pre > code.sourceCode > span > a:first-child::before { text-decoration: underlin
 </li>
           <li class="sidebar-item">
   <div class="sidebar-item-container"> 
-  <a href="../content/chapters/references.bib" class="sidebar-item-text sidebar-link">
+  <a href="../content/references.bib" class="sidebar-item-text sidebar-link">
  <span class="menu-text">Download a full reference list!</span></a>
   </div>
 </li>
@@ -348,7 +348,7 @@ pre > code.sourceCode > span > a:first-child::before { text-decoration: underlin
     <div>
     <div class="quarto-title-meta-heading">Published</div>
     <div class="quarto-title-meta-contents">
-      <p class="date">October 29, 2023</p>
+      <p class="date">October 30, 2023</p>
     </div>
   </div>
   

diff --git a/content/chapters/Estimation.html b/content/chapters/Estimation.html
@@ -257,7 +257,7 @@ pre > code.sourceCode > span > a:first-child::before { text-decoration: underlin
 </li>
           <li class="sidebar-item">
   <div class="sidebar-item-container"> 
-  <a href="../../content/chapters/references.bib" class="sidebar-item-text sidebar-link">
+  <a href="../../content/references.bib" class="sidebar-item-text sidebar-link">
  <span class="menu-text">Download a full reference list!</span></a>
   </div>
 </li>

diff --git a/content/Intro_to_ggplot2.html b/content/Intro_to_ggplot2.html
@@ -254,7 +254,7 @@ pre > code.sourceCode > span > a:first-child::before { text-decoration: underlin
 </li>
           <li class="sidebar-item">
   <div class="sidebar-item-container"> 
-  <a href="../content/chapters/references.bib" class="sidebar-item-text sidebar-link">
+  <a href="../content/references.bib" class="sidebar-item-text sidebar-link">
  <span class="menu-text">Download a full reference list!</span></a>
   </div>
 </li>

diff --git a/content/chapters/acknowledgements.html b/content/chapters/acknowledgements.html
@@ -221,7 +221,7 @@ ul.task-list li input[type="checkbox"] {
 </li>
           <li class="sidebar-item">
   <div class="sidebar-item-container"> 
-  <a href="../../content/chapters/references.bib" class="sidebar-item-text sidebar-link">
+  <a href="../../content/references.bib" class="sidebar-item-text sidebar-link">
  <span class="menu-text">Download a full reference list!</span></a>
   </div>
 </li>

diff --git a/content/getting_started/getting_started.html b/content/getting_started/getting_started.html
@@ -222,7 +222,7 @@ ul.task-list li input[type="checkbox"] {
 </li>
           <li class="sidebar-item">
   <div class="sidebar-item-container"> 
-  <a href="../../content/chapters/references.bib" class="sidebar-item-text sidebar-link">
+  <a href="../../content/references.bib" class="sidebar-item-text sidebar-link">
  <span class="menu-text">Download a full reference list!</span></a>
   </div>
 </li>
